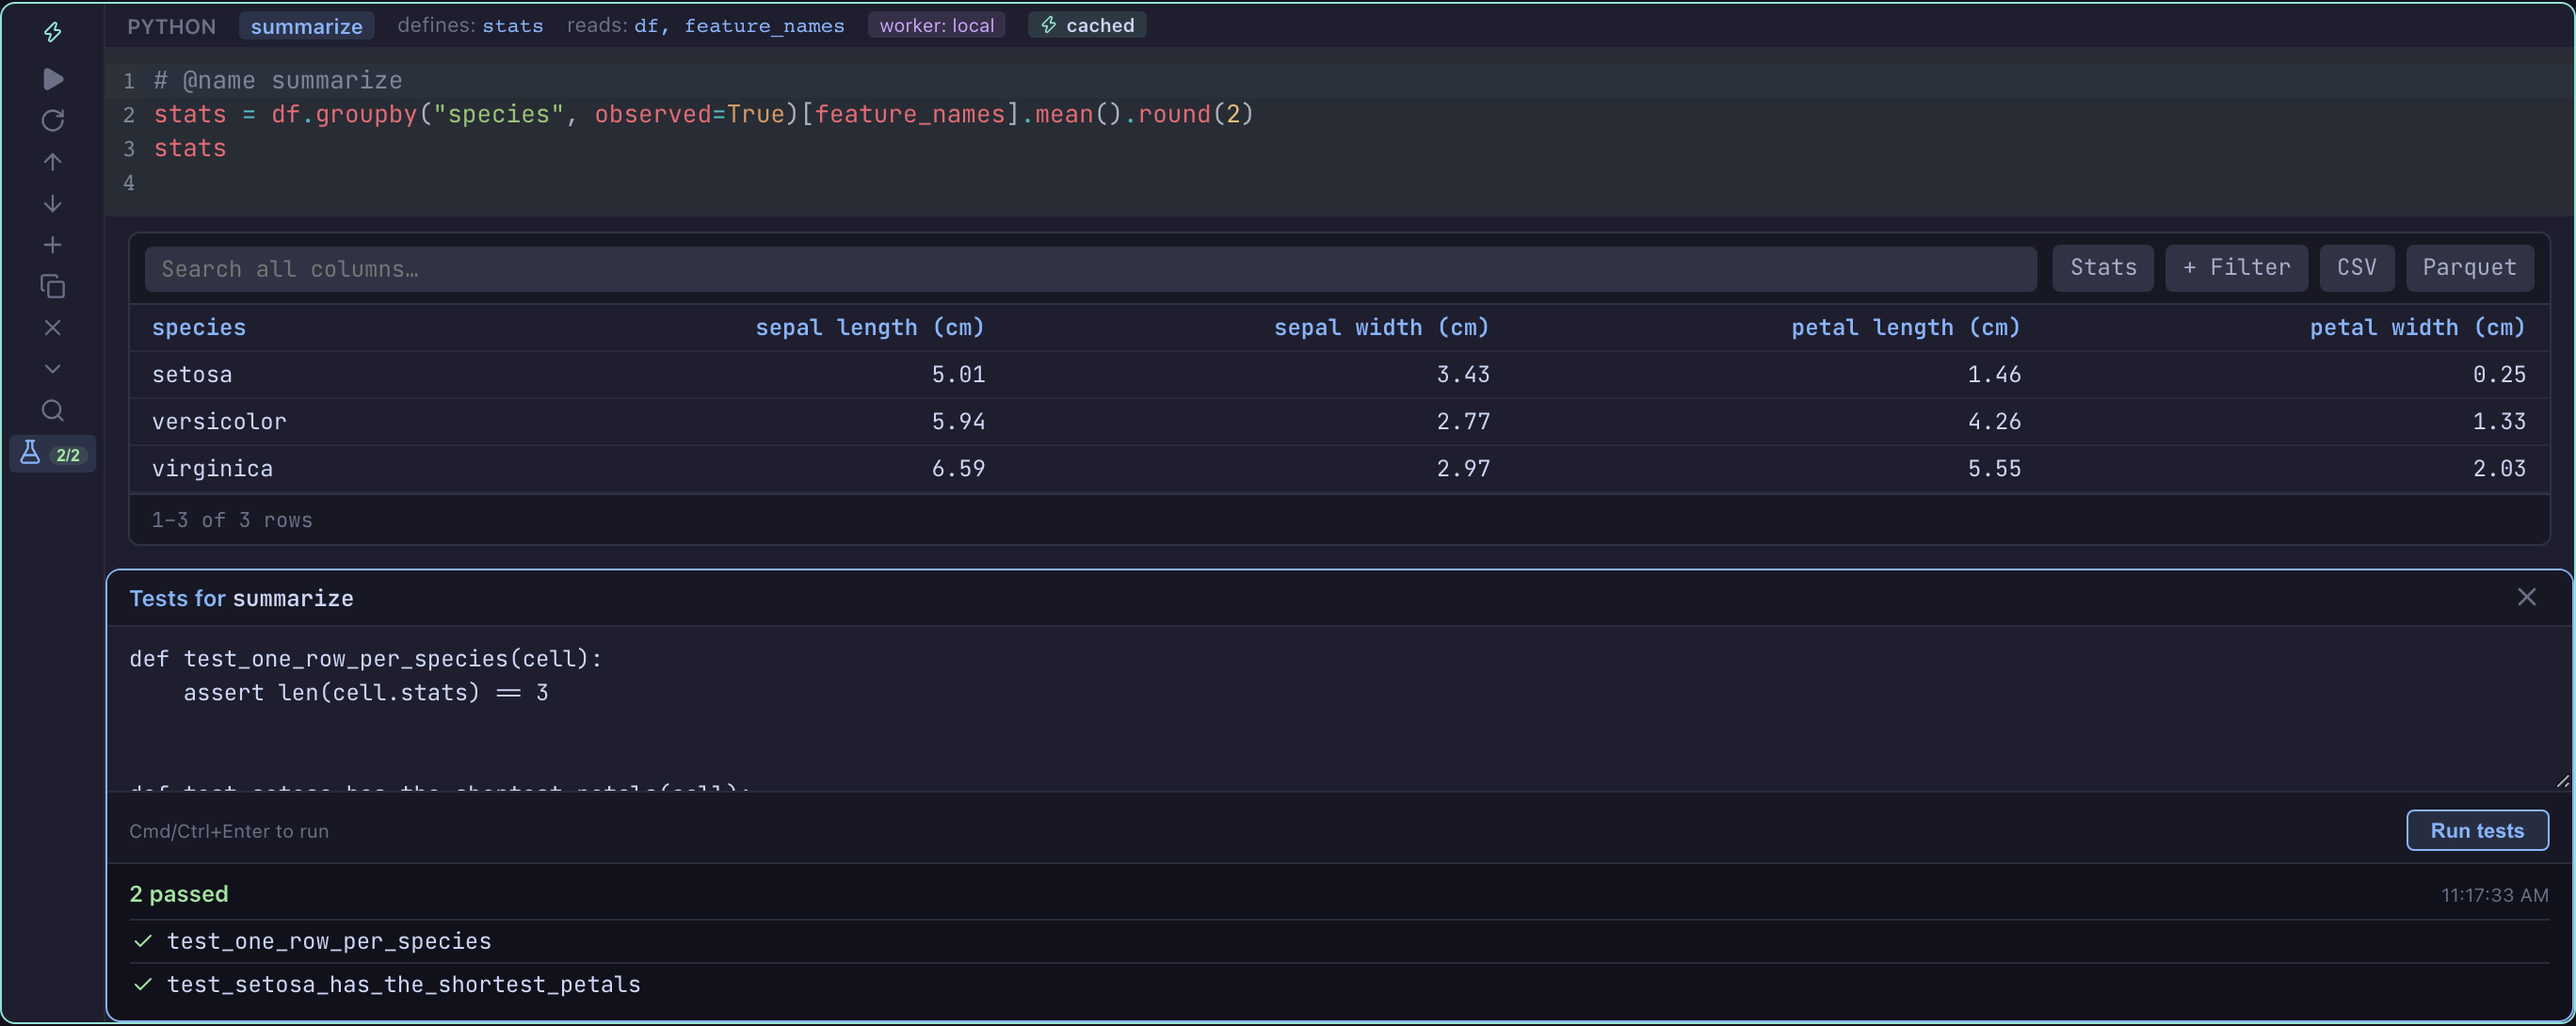
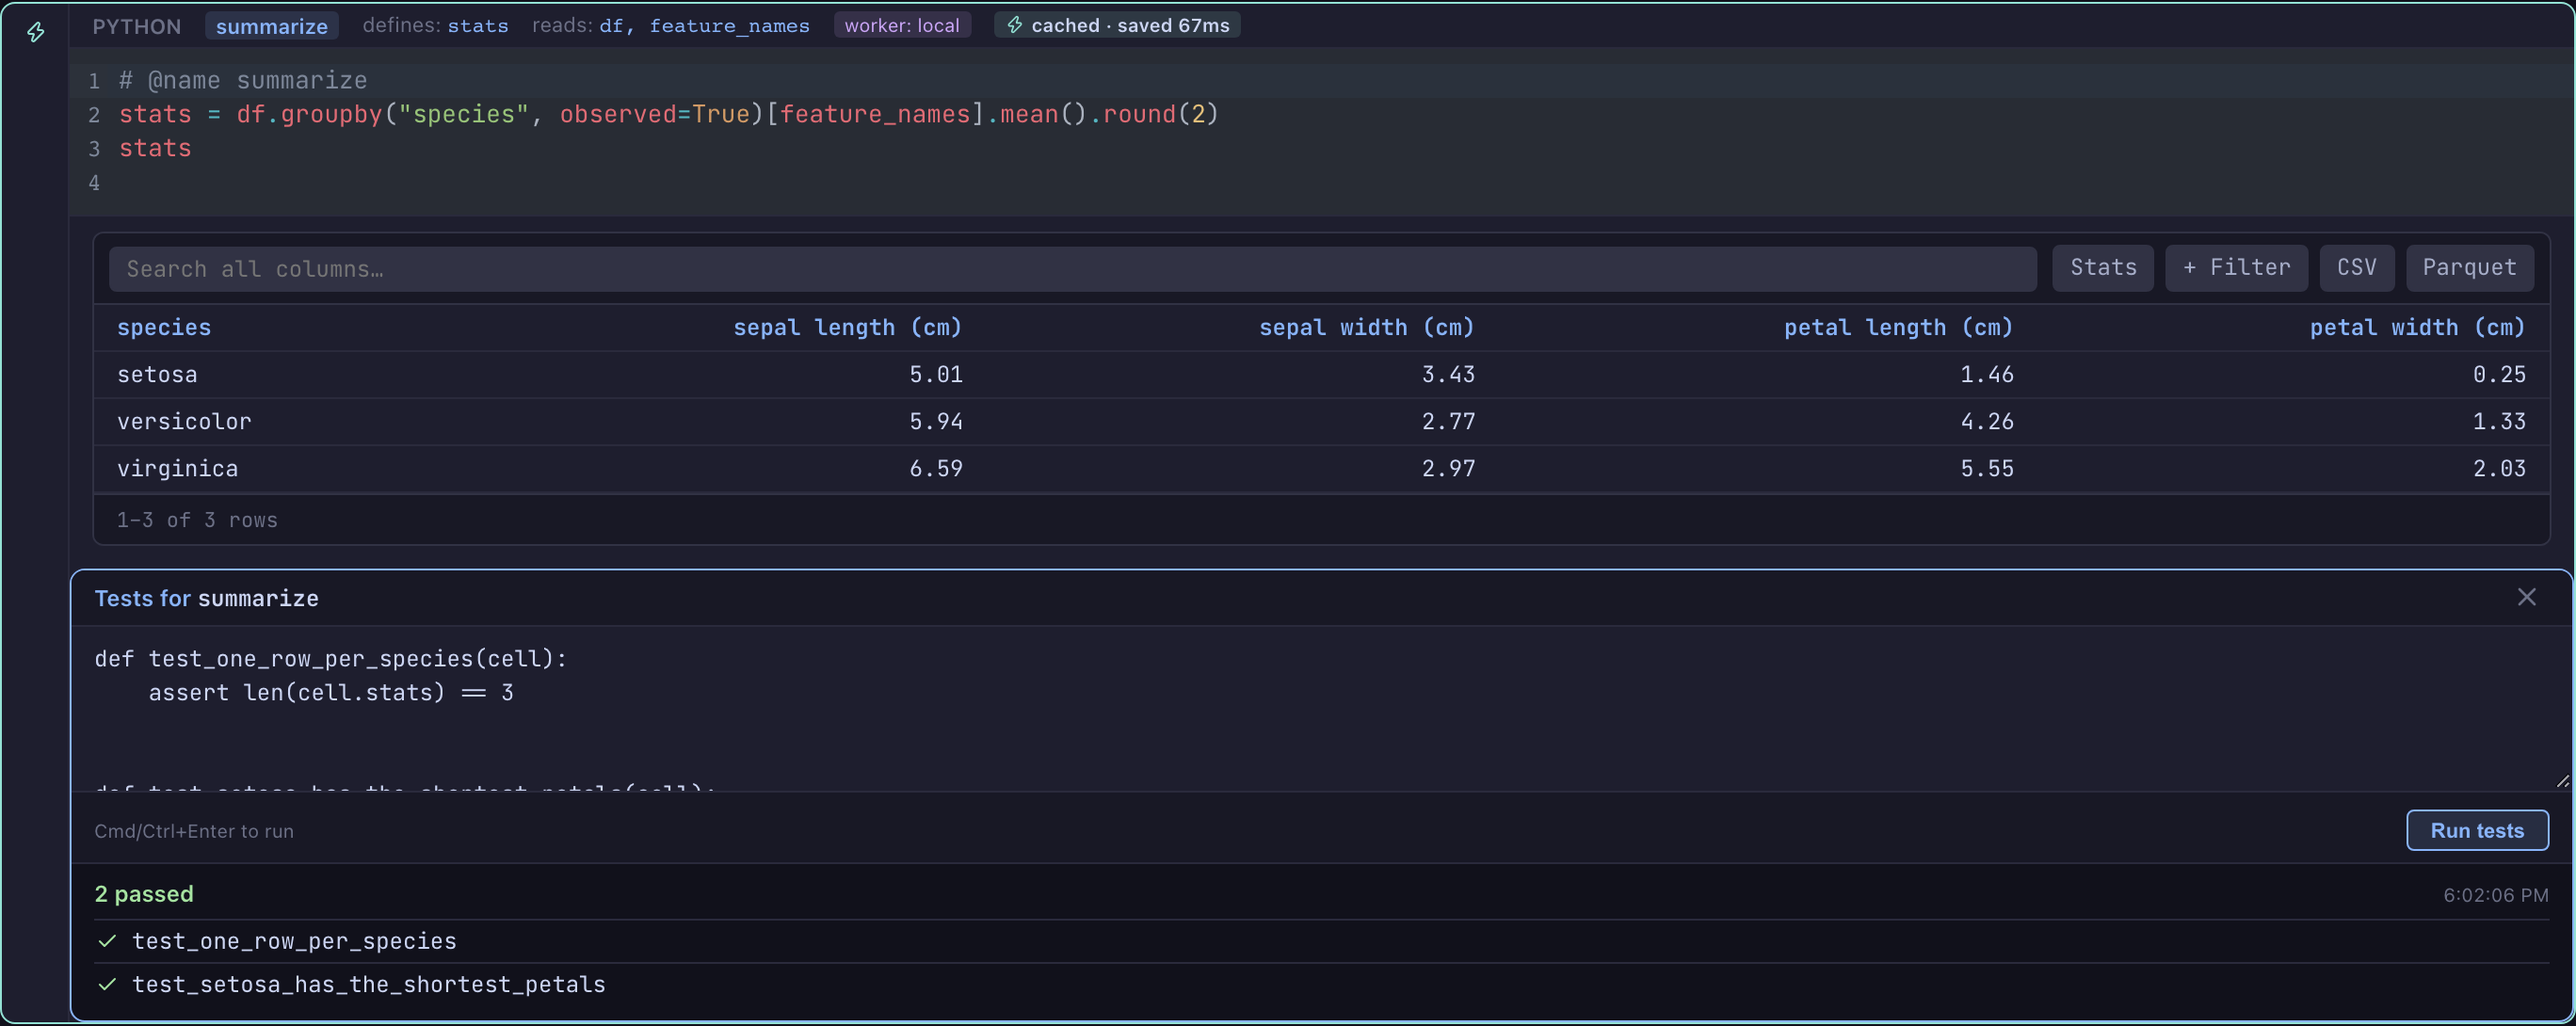
docs: refresh images for the shorter cells and stateless markdown
The GIFs and web shots still showed the old cell heights and green markdown
cells. Retaken from current main on a quiet machine, so the alt text moves to
the saved time the new GIF shows.

A cell's actions now open only on hover, which stopped the docs capture
script: it clicked Run and the Tests toggle without hovering first.

diff --git a/docs/index.md b/docs/index.md
@@ -88,8 +88,8 @@ See [Install](getting-started/installation.md) for full details.
 inputs and its environment. The step an agent ran ten turns ago is a cache hit now, and
 an edit re-runs only the cells below it.
 
-![A browser on the tutorial notebook over five moments: nothing has run; Run All computes every cell; Run All again and every code cell is a cache hit showing the time it saved; one cell is edited, so it and the chart below read stale while the load cell stays cached; Run All again, and only those two run while the load cell still reads cached, saved 2.6s.](assets/cache-payoff-light.gif#only-light)
-![A browser on the tutorial notebook over five moments: nothing has run; Run All computes every cell; Run All again and every code cell is a cache hit showing the time it saved; one cell is edited, so it and the chart below read stale while the load cell stays cached; Run All again, and only those two run while the load cell still reads cached, saved 2.6s.](assets/cache-payoff-dark.gif#only-dark)
+![A browser on the tutorial notebook over five moments: nothing has run; Run All computes every cell; Run All again and every code cell is a cache hit showing the time it saved; one cell is edited, so it and the chart below read stale while the load cell stays cached; Run All again, and only those two run while the load cell still reads cached, saved 2.7s.](assets/cache-payoff-light.gif#only-light)
+![A browser on the tutorial notebook over five moments: nothing has run; Run All computes every cell; Run All again and every code cell is a cache hit showing the time it saved; one cell is edited, so it and the chart below read stale while the load cell stays cached; Run All again, and only those two run while the load cell still reads cached, saved 2.7s.](assets/cache-payoff-dark.gif#only-dark)
 
 *Edit one cell in `strata tutorial`: only the cells that read it run again, and the
 cell above keeps what it saved. Captured from a real run, not a mock-up.*

diff --git a/docs/concepts/caching.md b/docs/concepts/caching.md
@@ -1,7 +1,7 @@
 # How caching works
 
-![A browser on the tutorial notebook over five moments: nothing has run; Run All computes every cell; Run All again and every code cell is a cache hit showing the time it saved; one cell is edited, so it and the chart below read stale while the load cell stays cached; Run All again, and only those two run while the load cell still reads cached, saved 2.6s.](../assets/cache-payoff-light.gif#only-light)
-![A browser on the tutorial notebook over five moments: nothing has run; Run All computes every cell; Run All again and every code cell is a cache hit showing the time it saved; one cell is edited, so it and the chart below read stale while the load cell stays cached; Run All again, and only those two run while the load cell still reads cached, saved 2.6s.](../assets/cache-payoff-dark.gif#only-dark)
+![A browser on the tutorial notebook over five moments: nothing has run; Run All computes every cell; Run All again and every code cell is a cache hit showing the time it saved; one cell is edited, so it and the chart below read stale while the load cell stays cached; Run All again, and only those two run while the load cell still reads cached, saved 2.7s.](../assets/cache-payoff-light.gif#only-light)
+![A browser on the tutorial notebook over five moments: nothing has run; Run All computes every cell; Run All again and every code cell is a cache hit showing the time it saved; one cell is edited, so it and the chart below read stale while the load cell stays cached; Run All again, and only those two run while the load cell still reads cached, saved 2.7s.](../assets/cache-payoff-dark.gif#only-dark)
 
 *Edit one cell in `strata tutorial`: only the cells that read it run again, and the
 cell above keeps what it saved. Captured from a real run, not a mock-up.*
